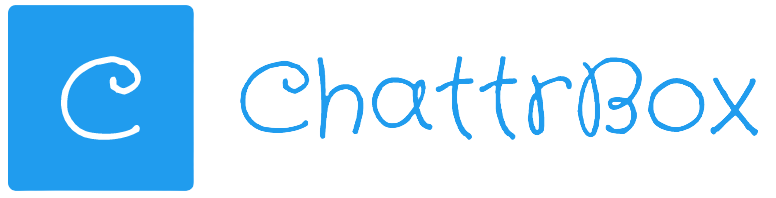
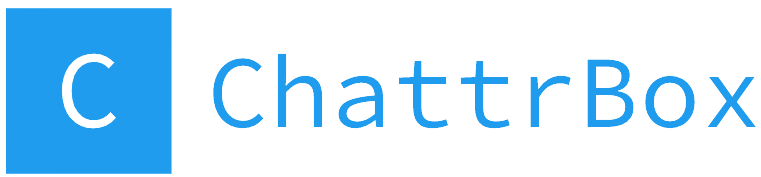
All changes made

Changed region(s): [[0.0, 0.0, 0.9974, 0.9887], [0.0604, 0.2825, 0.1813, 0.7345]]

diff --git a/ChattrBox/templates/layout.html b/ChattrBox/templates/layout.html
@@ -3,15 +3,18 @@
   <head>
     <meta charset="utf-8">
     <meta name="viewport" content="width=device-width, initial-scale=1">
-    <link rel="apple-touch-icon" sizes="180x180" href="/static/apple-touch-icon.png">
-    <link rel="icon" type="image/png" sizes="32x32" href="/static/favicon-32x32.png">
-    <link rel="icon" type="image/png" sizes="16x16" href="/static/favicon-16x16.png">
-    <link rel="manifest" href="/static/site.webmanifest">
+    <link rel="apple-touch-icon" sizes="180x180" href="/apple-touch-icon.png">
+    <link rel="icon" type="image/png" sizes="32x32" href="/favicon-32x32.png">
+    <link rel="icon" type="image/png" sizes="16x16" href="/favicon-16x16.png">
+    <link rel="manifest" href="/site.webmanifest">
     <title>ChattrBox: {% block title %}{% endblock %}</title>
     <link href="https://cdn.jsdelivr.net/npm/bootstrap@5.3.0-alpha1/dist/css/bootstrap.min.css" rel="stylesheet" integrity="sha384-GLhlTQ8iRABdZLl6O3oVMWSktQOp6b7In1Zl3/Jr59b6EGGoI1aFkw7cmDA6j6gD" crossorigin="anonymous">
     <link rel="stylesheet" href="/static/styles.css">
+    <link rel="preconnect" href="https://fonts.googleapis.com">
+    <link rel="preconnect" href="https://fonts.gstatic.com" crossorigin>
+    <link href="https://fonts.googleapis.com/css2?family=Source+Code+Pro&display=swap" rel="stylesheet">
   </head>
-  <body>
+  <body style="font-family: 'Source Code Pro', monospace;">
     {% block body %}{% endblock %}
   </body>
 </html>

diff --git a/ChattrBox/templates/chat.html b/ChattrBox/templates/chat.html
@@ -6,6 +6,7 @@
 
 {% block main %}
   <div class="container" id="main-chat">
+    <div class="profile"><img src="/static/Avatar.png" height="40">RhyBot</div>
     <div class="chat-window">
       <div></div>
     </div>

diff --git a/ChattrBox/static/styles.css b/ChattrBox/static/styles.css
@@ -140,3 +140,7 @@ h1 {
     position: fixed;
     width: 100%;
 }
+
+.profile {
+    margin-left: 30px;
+}
